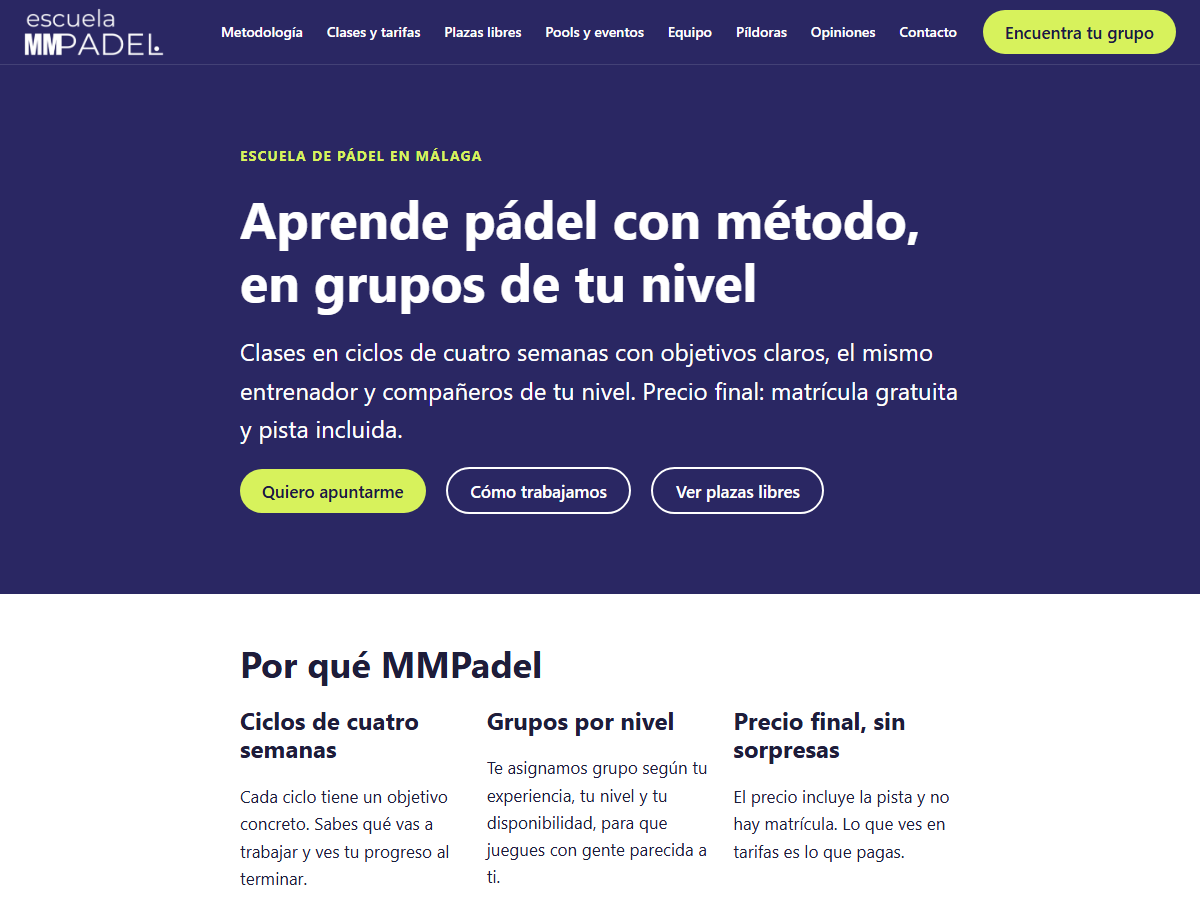
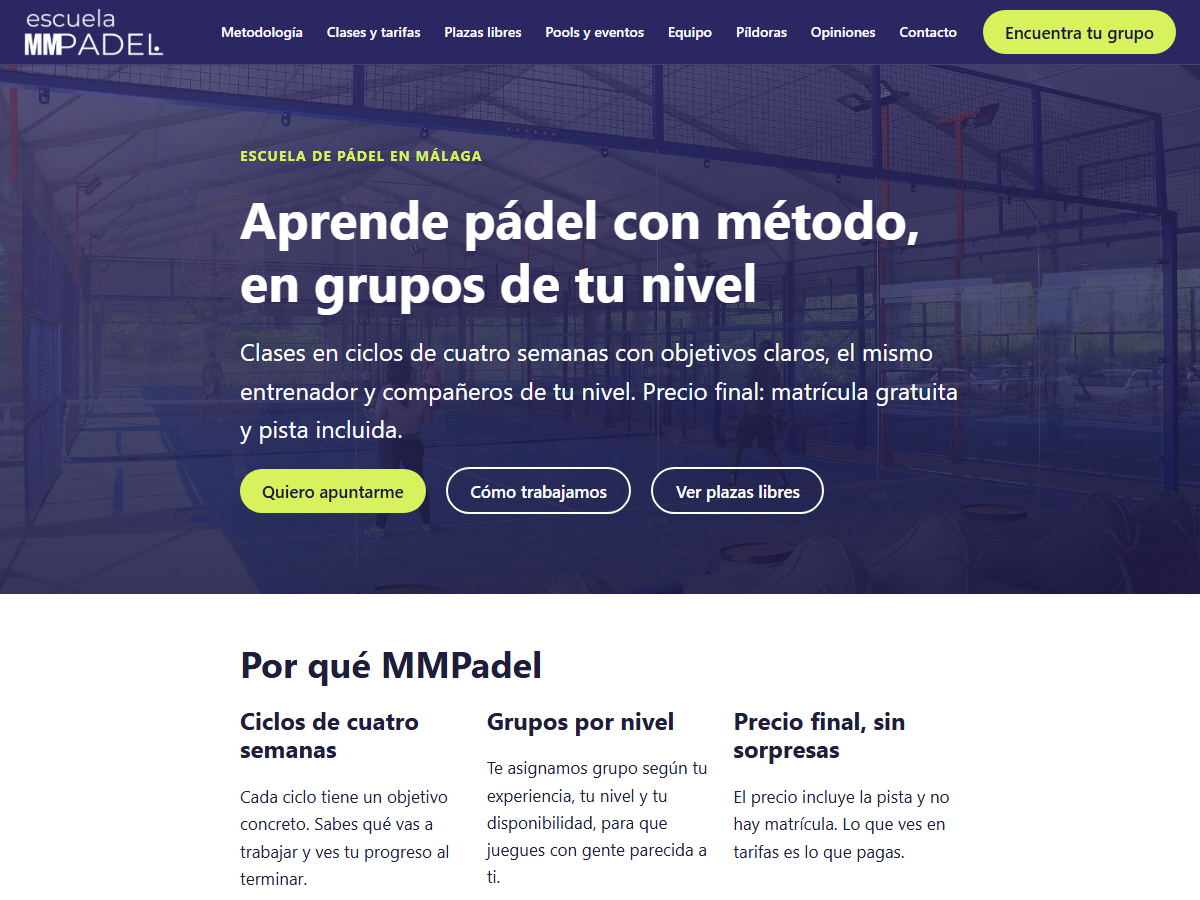
Fotos de portada provisionales
- Cinco fotos genéricas CC0 de Wikimedia Commons (créditos en
  portadas/CREDITOS.md) para inicio, metodología, clases y tarifas, pools
  y eventos y equipo; versión de escritorio (1920x1080) y de móvil
  (1000x1000), todas por debajo de 300 KB
- Inicio: la foto va de fondo de la sección mmpadel-hero. Páginas: franja
  de título a todo el ancho con la foto
- Velo azul de marca al 72 %: el texto blanco queda como mínimo a 5,6:1
- La imagen destacada de la página sustituye a la foto del tema, así se
  cambian desde el editor
- dev/portada.py genera las dos versiones a partir de cualquier foto

diff --git a/themes/mmpadel/assets/css/main.css b/themes/mmpadel/assets/css/main.css
@@ -270,7 +270,8 @@ a {
 /* En zonas oscuras el contorno de foco pasa a amarillo para que se vea. */
 .site-header,
 .site-footer,
-.mmpadel-hero {
+.mmpadel-hero,
+.page-hero {
 	--mmpadel-focus: 3px solid var(--mmpadel-color-acento);
 }
 
@@ -544,10 +545,54 @@ a {
 }
 
 /* Secciones (clases CSS adicionales en bloques Grupo) */
+/*
+ * Portadas con foto (portada de inicio y franja de título de las páginas).
+ * La foto llega como --mmpadel-portada / --mmpadel-portada-movil (ver
+ * mmpadel_theme_cover()) y va bajo un velo del azul de marca para que el
+ * texto blanco se lea siempre. Sin foto, queda el azul liso.
+ */
+.mmpadel-hero,
+.page-hero {
+	/* 72 % de opacidad: incluso sobre una zona blanca de la foto, el texto blanco
+	   queda a 5,6:1 de contraste (AA pide 4,5:1). No bajar de ahí. */
+	--mmpadel-velo: linear-gradient(
+		color-mix(in srgb, var(--mmpadel-color-primario) 72%, transparent),
+		color-mix(in srgb, var(--mmpadel-color-primario-oscuro) 88%, transparent)
+	);
+	background-color: var(--mmpadel-color-primario);
+	background-image: var(--mmpadel-velo), var(--mmpadel-portada-movil, none);
+	background-position: center;
+	background-size: cover;
+	color: var(--mmpadel-color-fondo);
+}
+
+@media (min-width: 48em) {
+	.mmpadel-hero,
+	.page-hero {
+		background-image: var(--mmpadel-velo), var(--mmpadel-portada, none);
+	}
+}
+
 .mmpadel-hero {
 	padding-block: var(--mmpadel-space-xl);
-	background: var(--mmpadel-color-primario);
-	color: var(--mmpadel-color-fondo);
+}
+
+.page-hero {
+	margin-bottom: var(--mmpadel-space-lg);
+	padding-block: var(--mmpadel-space-xl) var(--mmpadel-space-lg);
+}
+
+.page-hero .entry-header {
+	margin-bottom: 0;
+}
+
+.page-hero .entry-title {
+	color: inherit;
+	text-wrap: balance;
+}
+
+.tiene-portada .site-main {
+	padding-top: 0;
 }
 
 .mmpadel-hero h1 {

diff --git a/dev/portada.py b/dev/portada.py
@@ -1,0 +1,63 @@
+"""Genera la foto de portada de una página a partir de cualquier foto.
+
+Uso (requiere Pillow):
+    python dev/portada.py ruta/a/la/foto.jpg metodologia
+
+Crea en themes/mmpadel/assets/images/portadas/:
+- {slug}.webp        1920x1080 (escritorio), como mucho 300 KB
+- {slug}-movil.webp  1000x1000 (móvil), como mucho 150 KB
+
+El recorte es centrado: si lo importante de la foto está en un lateral,
+mejor recortarla antes. El slug es el de la página (inicio, metodologia,
+clases-y-tarifas, pools-y-eventos, equipo…).
+"""
+import io
+import os
+import sys
+
+from PIL import Image, ImageOps
+
+DESTINO = os.path.join(os.path.dirname(__file__), '..', 'themes', 'mmpadel', 'assets', 'images', 'portadas')
+
+
+def crop(im, ratio):
+    w, h = im.size
+    if w / h > ratio:
+        nw = round(h * ratio)
+        x = (w - nw) // 2
+        return im.crop((x, 0, x + nw, h))
+    nh = round(w / ratio)
+    y = (h - nh) // 2
+    return im.crop((0, y, w, y + nh))
+
+
+def save_webp(im, path, limit):
+    """Guarda en WebP bajando la calidad hasta quedar por debajo del límite (mínimo 40)."""
+    for quality in range(62, 39, -4):
+        buf = io.BytesIO()
+        im.save(buf, 'WEBP', quality=quality, method=6)
+        if buf.tell() <= limit:
+            break
+    with open(path, 'wb') as f:
+        f.write(buf.getvalue())
+    return buf.tell()
+
+
+def main():
+    if len(sys.argv) != 3:
+        sys.exit(__doc__)
+    origen, slug = sys.argv[1], sys.argv[2]
+
+    # exif_transpose: respeta la orientación de las fotos hechas con el móvil.
+    im = ImageOps.exif_transpose(Image.open(origen)).convert('RGB')
+    if im.width < 1920:
+        print(f'Aviso: la foto mide {im.width} px de ancho; en pantallas grandes se verá algo borrosa.')
+
+    os.makedirs(DESTINO, exist_ok=True)
+    grande = save_webp(crop(im, 16 / 9).resize((1920, 1080), Image.LANCZOS), os.path.join(DESTINO, f'{slug}.webp'), 300_000)
+    movil = save_webp(crop(im, 1).resize((1000, 1000), Image.LANCZOS), os.path.join(DESTINO, f'{slug}-movil.webp'), 150_000)
+    print(f'{slug}.webp ({grande // 1000} KB) y {slug}-movil.webp ({movil // 1000} KB) listos.')
+
+
+if __name__ == '__main__':
+    main()

diff --git a/themes/mmpadel/inc/template-tags.php b/themes/mmpadel/inc/template-tags.php
@@ -75,6 +75,59 @@ function mmpadel_theme_image_url( $file ) {
 }
 
 /**
+ * Foto de portada de una página, por orden de preferencia:
+ * 1. Su imagen destacada (se cambia desde el editor).
+ * 2. assets/images/portadas/{slug}.webp del tema (y {slug}-movil.webp para móvil).
+ *
+ * @param int|WP_Post|null $post Página; por defecto la actual.
+ * @return array{grande: string, movil: string}|null URLs, o null si no tiene.
+ */
+function mmpadel_theme_cover( $post = null ) {
+	$post = get_post( $post );
+	if ( ! $post || 'page' !== $post->post_type ) {
+		return null;
+	}
+
+	if ( has_post_thumbnail( $post ) ) {
+		$id = get_post_thumbnail_id( $post );
+		return array(
+			'grande' => (string) wp_get_attachment_image_url( $id, '2048x2048' ),
+			'movil'  => (string) wp_get_attachment_image_url( $id, 'large' ),
+		);
+	}
+
+	$file = 'portadas/' . $post->post_name;
+	if ( ! file_exists( get_theme_file_path( 'assets/images/' . $file . '.webp' ) ) ) {
+		return null;
+	}
+	$movil = file_exists( get_theme_file_path( 'assets/images/' . $file . '-movil.webp' ) ) ? $file . '-movil' : $file;
+
+	return array(
+		'grande' => mmpadel_theme_image_url( $file . '.webp' ),
+		'movil'  => mmpadel_theme_image_url( $movil . '.webp' ),
+	);
+}
+
+/**
+ * Atributo style con las variables CSS de la portada (--mmpadel-portada y
+ * --mmpadel-portada-movil). Vacío si no hay portada.
+ *
+ * @param array|null $cover Resultado de mmpadel_theme_cover().
+ * @return string Atributo ya escapado, con espacio inicial.
+ */
+function mmpadel_theme_cover_style( $cover ) {
+	if ( ! $cover ) {
+		return '';
+	}
+	$style = sprintf(
+		'--mmpadel-portada:url("%1$s");--mmpadel-portada-movil:url("%2$s")',
+		esc_url( $cover['grande'] ),
+		esc_url( $cover['movil'] )
+	);
+	return ' style="' . esc_attr( $style ) . '"';
+}
+
+/**
  * URL de una página por su slug, con la ruta prevista como reserva.
  *
  * @param string $slug Slug de la página.

diff --git a/themes/mmpadel/page.php b/themes/mmpadel/page.php
@@ -2,6 +2,9 @@
 /**
  * Páginas. El contenido se edita con el editor de bloques.
  *
+ * Si la página tiene foto de portada (ver mmpadel_theme_cover()), el título
+ * va sobre ella en una franja a todo el ancho.
+ *
  * @package MMPadel
  */
 
@@ -13,11 +16,20 @@ get_header();
 	<?php
 	while ( have_posts() ) :
 		the_post();
+		$mmpadel_cover = mmpadel_theme_cover();
 		?>
 		<article id="post-<?php the_ID(); ?>" <?php post_class( 'entry' ); ?>>
-			<header class="entry-header container">
-				<?php the_title( '<h1 class="entry-title">', '</h1>' ); ?>
-			</header>
+			<?php if ( $mmpadel_cover ) : ?>
+				<div class="page-hero"<?php echo mmpadel_theme_cover_style( $mmpadel_cover ); // phpcs:ignore WordPress.Security.EscapeOutput.OutputNotEscaped -- escapado en la función. ?>>
+					<header class="entry-header container">
+						<?php the_title( '<h1 class="entry-title">', '</h1>' ); ?>
+					</header>
+				</div>
+			<?php else : ?>
+				<header class="entry-header container">
+					<?php the_title( '<h1 class="entry-title">', '</h1>' ); ?>
+				</header>
+			<?php endif; ?>
 			<div class="entry-content is-layout-constrained has-global-padding">
 				<?php the_content(); ?>
 			</div>

diff --git a/themes/mmpadel/front-page.php b/themes/mmpadel/front-page.php
@@ -1,6 +1,8 @@
 <?php
 /**
  * Portada. Sin título de página: el H1 va en el bloque de cabecera del contenido.
+ * La foto de portada (ver mmpadel_theme_cover()) se pasa como variable CSS y
+ * la usa de fondo el grupo con la clase mmpadel-hero.
  *
  * Si la portada muestra las últimas entradas en vez de una página, se usa el listado.
  *
@@ -21,7 +23,7 @@ get_header();
 	while ( have_posts() ) :
 		the_post();
 		?>
-		<div class="entry-content is-layout-constrained has-global-padding">
+		<div class="entry-content is-layout-constrained has-global-padding"<?php echo mmpadel_theme_cover_style( mmpadel_theme_cover() ); // phpcs:ignore WordPress.Security.EscapeOutput.OutputNotEscaped -- escapado en la función. ?>>
 			<?php the_content(); ?>
 		</div>
 		<?php

diff --git a/themes/mmpadel/inc/setup.php b/themes/mmpadel/inc/setup.php
@@ -115,6 +115,21 @@ function mmpadel_theme_js_class() {
 add_action( 'wp_head', 'mmpadel_theme_js_class', 1 );
 
 /**
+ * Clase en body para las páginas interiores con foto de portada: la franja
+ * de la foto empieza justo bajo la cabecera.
+ *
+ * @param string[] $classes Clases del body.
+ * @return string[]
+ */
+function mmpadel_theme_body_class( $classes ) {
+	if ( is_page() && ! is_front_page() && mmpadel_theme_cover( get_queried_object_id() ) ) {
+		$classes[] = 'tiene-portada';
+	}
+	return $classes;
+}
+add_filter( 'body_class', 'mmpadel_theme_body_class' );
+
+/**
  * Extracto más corto para las tarjetas.
  *
  * @return int

diff --git a/README.md b/README.md
@@ -63,6 +63,7 @@ npm run demo       # opcional: tarifas, entrenadores, eventos, FAQ y píldoras d
 | Preguntas frecuentes | *Preguntas frecuentes* (con categorías) |
 | Teléfono, WhatsApp, dirección, horario, redes sociales, enlaces, email de avisos, datos legales | *Ajustes → MMPadel* |
 | Fotos (entrenadores, clases, eventos, píldoras) | *Medios* (Biblioteca de medios) |
+| Foto de portada de una página | *Imagen destacada* de la página (sustituye a la foto del tema, ver `themes/mmpadel/assets/images/README.md`) |
 | Menús | *Apariencia → Menús* |
 | Solicitudes recibidas | *Solicitudes* (solo administradores) |
 
@@ -131,7 +132,7 @@ docs/                   Documentación del cliente (no se versiona)
 ## Pendiente
 
 **Contenido y diseño**
-- Diseño final: tipografía de marca (alojada en el propio servidor, en `theme.json`), fotos reales y revisión visual completa. El logo y los colores (azul `#2A2763` del logo y amarillo pelota `#D7F25C` como acento) ya están aplicados.
+- Diseño final: tipografía de marca (alojada en el propio servidor, en `theme.json`), fotos reales (las portadas actuales son genéricas y provisionales, ver `themes/mmpadel/assets/images/portadas/CREDITOS.md`) y revisión visual completa. El logo y los colores (azul `#2A2763` del logo y amarillo pelota `#D7F25C` como acento) ya están aplicados.
 - Textos definitivos, tarifas reales, equipo y FAQ. Borrar el contenido de ejemplo con `wp mmpadel demo --borrar`.
 - Widget oficial de reseñas de Google en *Opiniones*.
 

diff --git a/themes/mmpadel/assets/images/README.md b/themes/mmpadel/assets/images/README.md
@@ -18,6 +18,23 @@ Si se sube un logo en *Personalizar → Identidad del sitio*, ese tiene priorida
 
 En las plantillas PHP las imágenes de esta carpeta se usan con `mmpadel_theme_image_url( 'logo-blanco.webp' )`.
 
+## Fotos de portada (`portadas/`)
+
+Fotos de fondo de la portada de inicio y de la franja de título de algunas páginas, bajo un velo azul de marca. Cada página usa `portadas/{slug}.webp` (escritorio, 1920×1080) y `portadas/{slug}-movil.webp` (móvil, 1000×1000). Ahora hay fotos genéricas provisionales para `inicio`, `metodologia`, `clases-y-tarifas`, `pools-y-eventos` y `equipo` (origen y licencia en [portadas/CREDITOS.md](portadas/CREDITOS.md)).
+
+Para cambiar una portada hay dos formas:
+
+1. **Desde el panel (la más sencilla):** poner una *Imagen destacada* en la página. Tiene prioridad sobre los archivos de esta carpeta y vale para cualquier página.
+2. **Con archivos:** generar las dos versiones desde una foto propia y sustituir las actuales:
+
+   ```bash
+   python dev/portada.py ruta/a/la/foto.jpg metodologia
+   ```
+
+   Si se sustituye `{slug}.webp` a mano, hay que sustituir o borrar también `{slug}-movil.webp`; si no, en el móvil se seguiría viendo la foto anterior.
+
+Para quitar la foto de una página, se borran sus dos archivos: la página vuelve a la cabecera sin foto.
+
 ## Qué NO va aquí
 
 Las fotos de **contenido** se suben a la *Biblioteca de medios* del panel, no a esta carpeta:

diff --git a/themes/mmpadel/assets/images/portadas/CREDITOS.md b/themes/mmpadel/assets/images/portadas/CREDITOS.md
@@ -1,0 +1,11 @@
+# Créditos de las portadas provisionales
+
+Fotos genéricas de Wikimedia Commons con licencia **CC0** (dominio público): se pueden usar sin atribución. Son provisionales; al sustituirlas por fotos propias, se borra la línea correspondiente.
+
+| Archivo | Foto original | Autor | Licencia |
+|---|---|---|---|
+| `inicio.webp` | [Padel court12.jpg](https://commons.wikimedia.org/wiki/File:Padel_court12.jpg) | Samson Ssemakadde | CC0 |
+| `metodologia.webp` | [Padel Court in Nsambya.jpg](https://commons.wikimedia.org/wiki/File:Padel_Court_in_Nsambya.jpg) | Samson Ssemakadde | CC0 |
+| `clases-y-tarifas.webp` | [Padel court.jpg](https://commons.wikimedia.org/wiki/File:Padel_court.jpg) | Samson Ssemakadde | CC0 |
+| `pools-y-eventos.webp` | [Padel en el Cos Sports Plaza.jpg](https://commons.wikimedia.org/wiki/File:Padel_en_el_Cos_Sports_Plaza.jpg) | Virpana | CC0 |
+| `equipo.webp` | [Padel court along Ggaba road.jpg](https://commons.wikimedia.org/wiki/File:Padel_court_along_Ggaba_road.jpg) | Samson Ssemakadde | CC0 |
